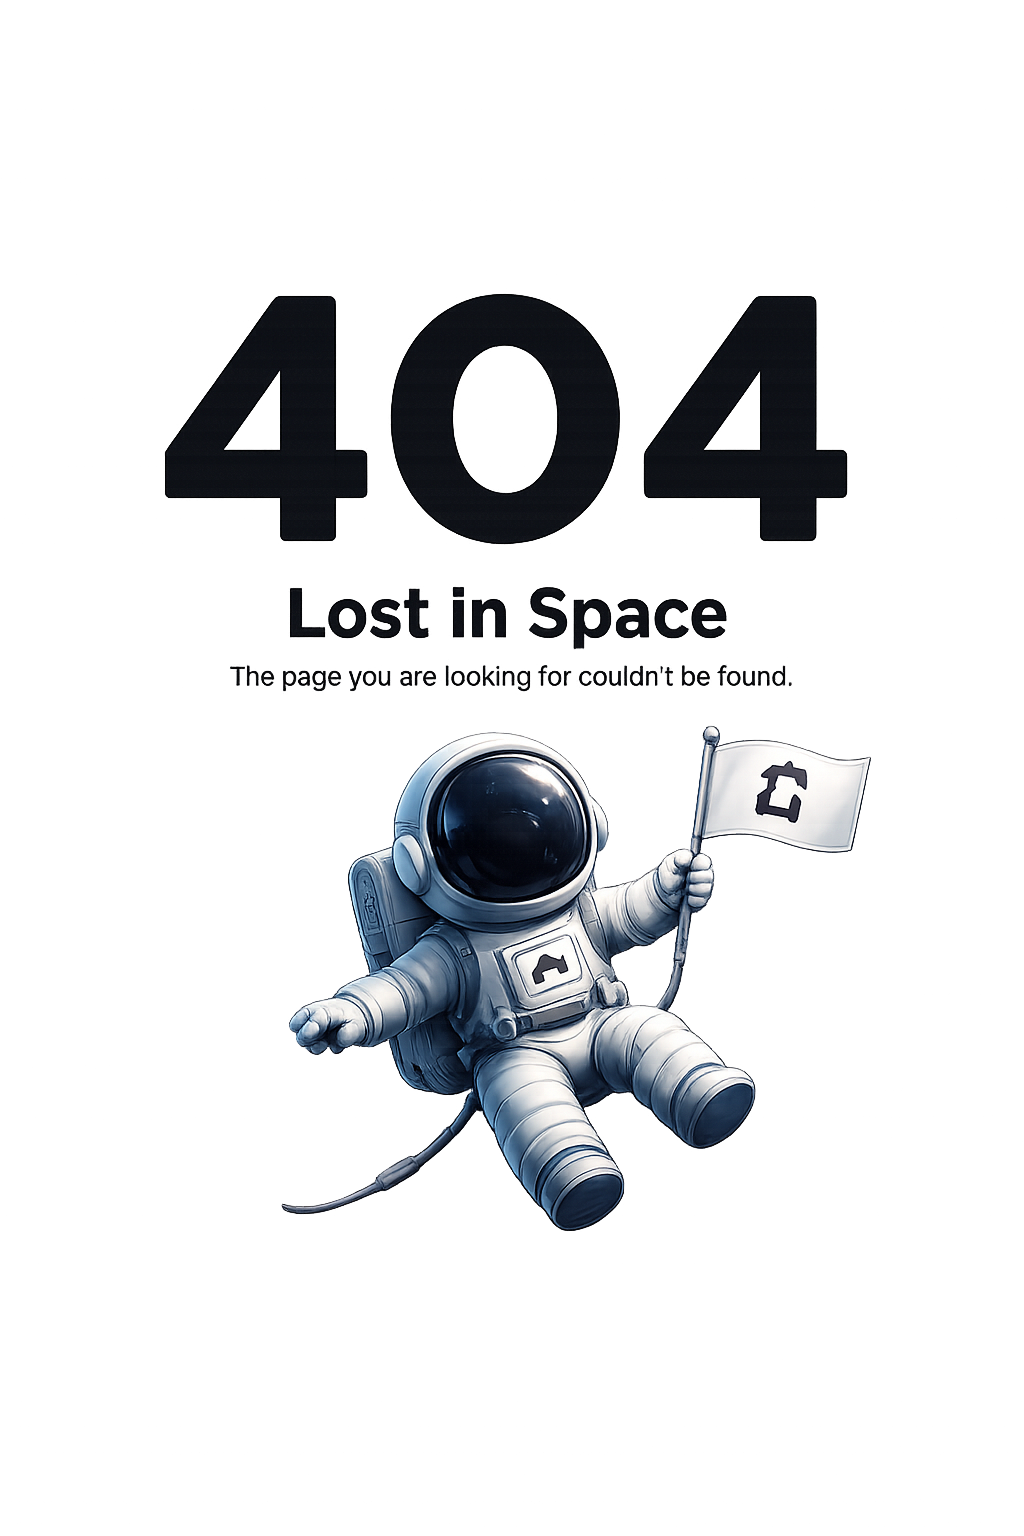
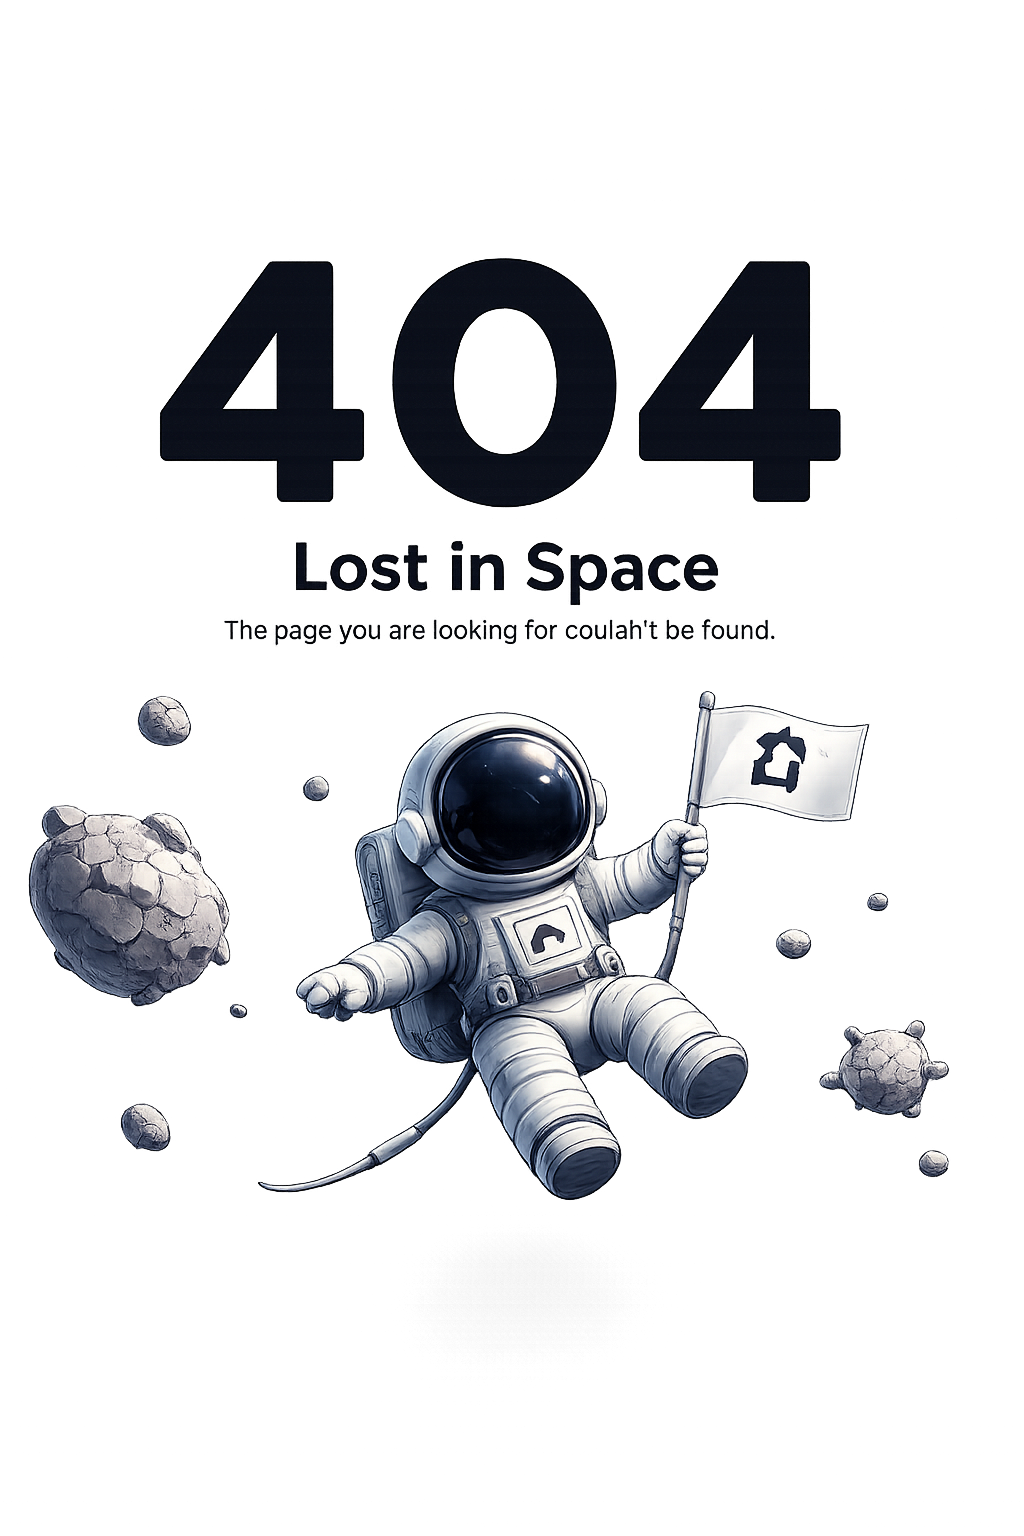
fix

diff --git a/src/pages/NotFoundPage.tsx b/src/pages/NotFoundPage.tsx
@@ -2,7 +2,7 @@ import not from "/error.png";
 function NotFoundPage() {
   return (
     <div>
-      <img src={not} alt="" className="mx-auto block w-full" />
+      <img src={not} alt="" className="mx-auto block w-80" />
     </div>
   );
 }
